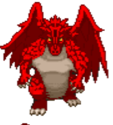
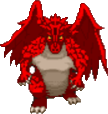
Monstre apparaissent sur la table et bouton jouer disponible seulment si on a locker un personnage

diff --git a/client/client/src/Game.cpp b/client/client/src/Game.cpp
@@ -22,6 +22,9 @@ Game::Game(bool debug, ManagerGroup * ptr_managerGroup):
         m_crapaudButton(),
         m_dragonButton(),
         m_yetiButton(),
+        m_yetiPanel(),
+        m_dragonPanel(),
+        m_crapaudPanel(),
         m_panelCharateristics(),
         m_panelNameCharacter(),
         m_panelAttack(),
@@ -172,7 +175,17 @@ Game::Game(bool debug, ManagerGroup * ptr_managerGroup):
                         ptr_managerGroup->ptr_textureManager->getTexture("yetiButton_2"));
     m_panelMonstresMJ.addComponent(&m_yetiButton);
 
+    m_yetiPanel.create("yetiPanel", 650,190,  ptr_managerGroup->ptr_textureManager->getTexture("Yeti"));
+    m_yetiPanel.setVisible(false);
+    getContentPane()->addComponent(&m_yetiPanel);
 
+    m_dragonPanel.create("dragonPanel", 350,210,  ptr_managerGroup->ptr_textureManager->getTexture("Dragon"));
+    m_dragonPanel.setVisible(false);
+    getContentPane()->addComponent(&m_dragonPanel);
+
+    m_crapaudPanel.create("crapaudPanel", 520,200,  ptr_managerGroup->ptr_textureManager->getTexture("Crapaud"));
+    m_crapaudPanel.setVisible(false);
+    getContentPane()->addComponent(&m_crapaudPanel);
 
 
 
@@ -368,18 +381,30 @@ void Game::update(sf::RenderWindow * window,
     if(m_isOnMonstrePanel){
         if(m_inputHandler.getComponentId() == "crapaudButton"){
             //TODO : afficher une image de crapaud
+            m_crapaudPanel.setVisible(true);
+            m_yetiPanel.setVisible(false);
+            m_dragonPanel.setVisible(false);
+
             m_isOnMonstrePanel = false;
             m_ambianceButton.setVisible(true);
             m_panelMonstresMJ.setVisible(false);
         }
         if(m_inputHandler.getComponentId() == "dragonButton"){
             //TODO : afficher une image de dragon
+            m_crapaudPanel.setVisible(false);
+            m_yetiPanel.setVisible(false);
+            m_dragonPanel.setVisible(true);
+
             m_isOnMonstrePanel = false;
             m_ambianceButton.setVisible(true);
             m_panelMonstresMJ.setVisible(false);
         }
         if(m_inputHandler.getComponentId() == "yetiButton"){
             //TODO : afficher une image de yeti
+            m_crapaudPanel.setVisible(false);
+            m_yetiPanel.setVisible(true);
+            m_dragonPanel.setVisible(false);
+
             m_isOnMonstrePanel = false;
             m_ambianceButton.setVisible(true);
             m_panelMonstresMJ.setVisible(false);

diff --git a/client/client/src/WarmUp.cpp b/client/client/src/WarmUp.cpp
@@ -77,8 +77,8 @@ WarmUp::WarmUp(bool debug, ManagerGroup * ptr_managerGroup) :
 
     m_validateCharacterButton.setVisible(false);
     m_playButton.setVisible(true);
-    m_playButton.setEnabled(false);
-    //m_playButton.setVisible(false);
+    //m_playButton.setEnabled(false);
+    m_playButton.setVisible(false);
     m_infoCharacterPanel.setVisible(false);
     m_selectCharacterPanel.setVisible(false);
     m_infoCharacterPanel.addComponent(&m_infoCharacterLabel);
@@ -186,7 +186,7 @@ void WarmUp::update(sf::RenderWindow * window,
             str.push_back(static_cast<char>(*it));
         }
 
-        std::cout << "NOM PERSO SELECTIONNE S : " << str << std::endl;
+        //std::cout << "NOM PERSO SELECTIONNE S : " << str << std::endl;
         if (!m_ptr_managerGroup->ptr_networkManager->request(2, str)){
             errorConnection();
         }
@@ -259,7 +259,7 @@ void WarmUp::receiveRequest(){
                 //TODO bloquer les autres personnages
                 m_charSelected = true;
                 //TODO rendre disponible le bouton de lancement du jeu
-                m_playButton.setEnabled(true);
+                m_playButton.setVisible(true);
                 //m_playButton.setVisible(true);
                 std::cout << "Choix validé ! " << std::endl;
 

diff --git a/client/client/include/Game.hpp b/client/client/include/Game.hpp
@@ -50,6 +50,9 @@ private:
     NButton m_dragonButton;
     NButton m_yetiButton;
 
+    NPanel m_yetiPanel;
+    NPanel m_dragonPanel;
+    NPanel m_crapaudPanel;
 
     NPanel m_panelCharateristics;
     NPanel m_panelNameCharacter;
